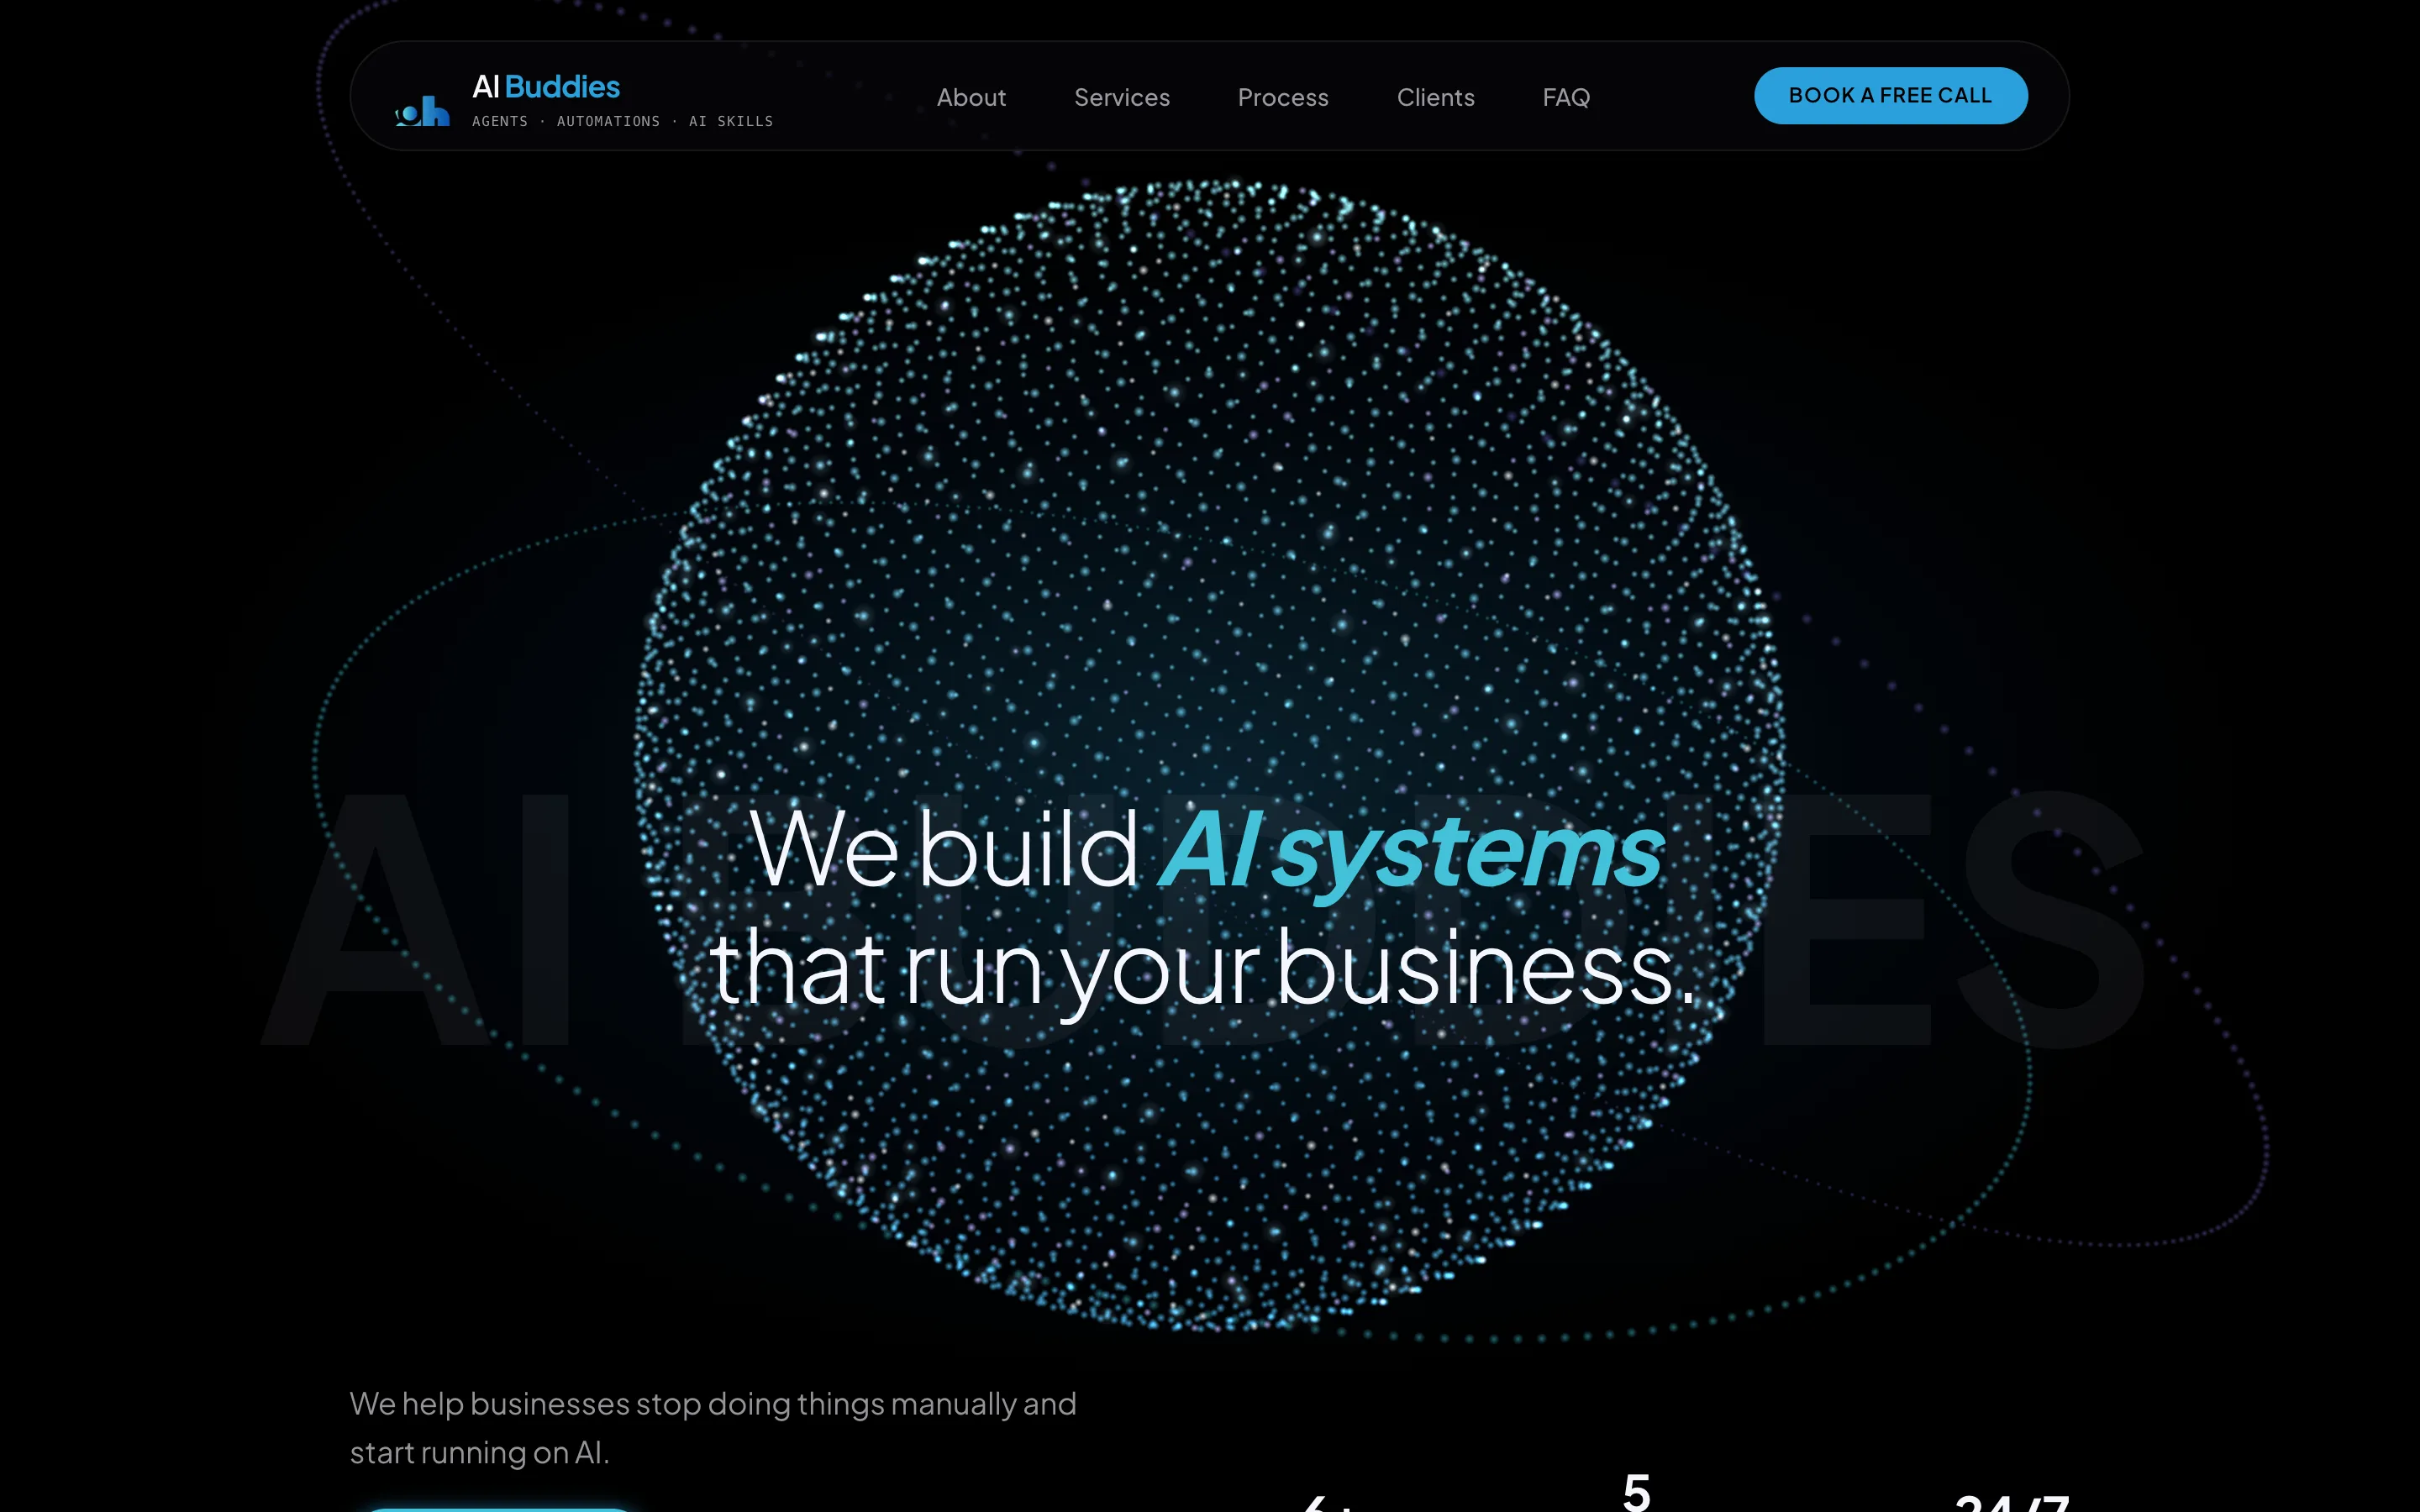
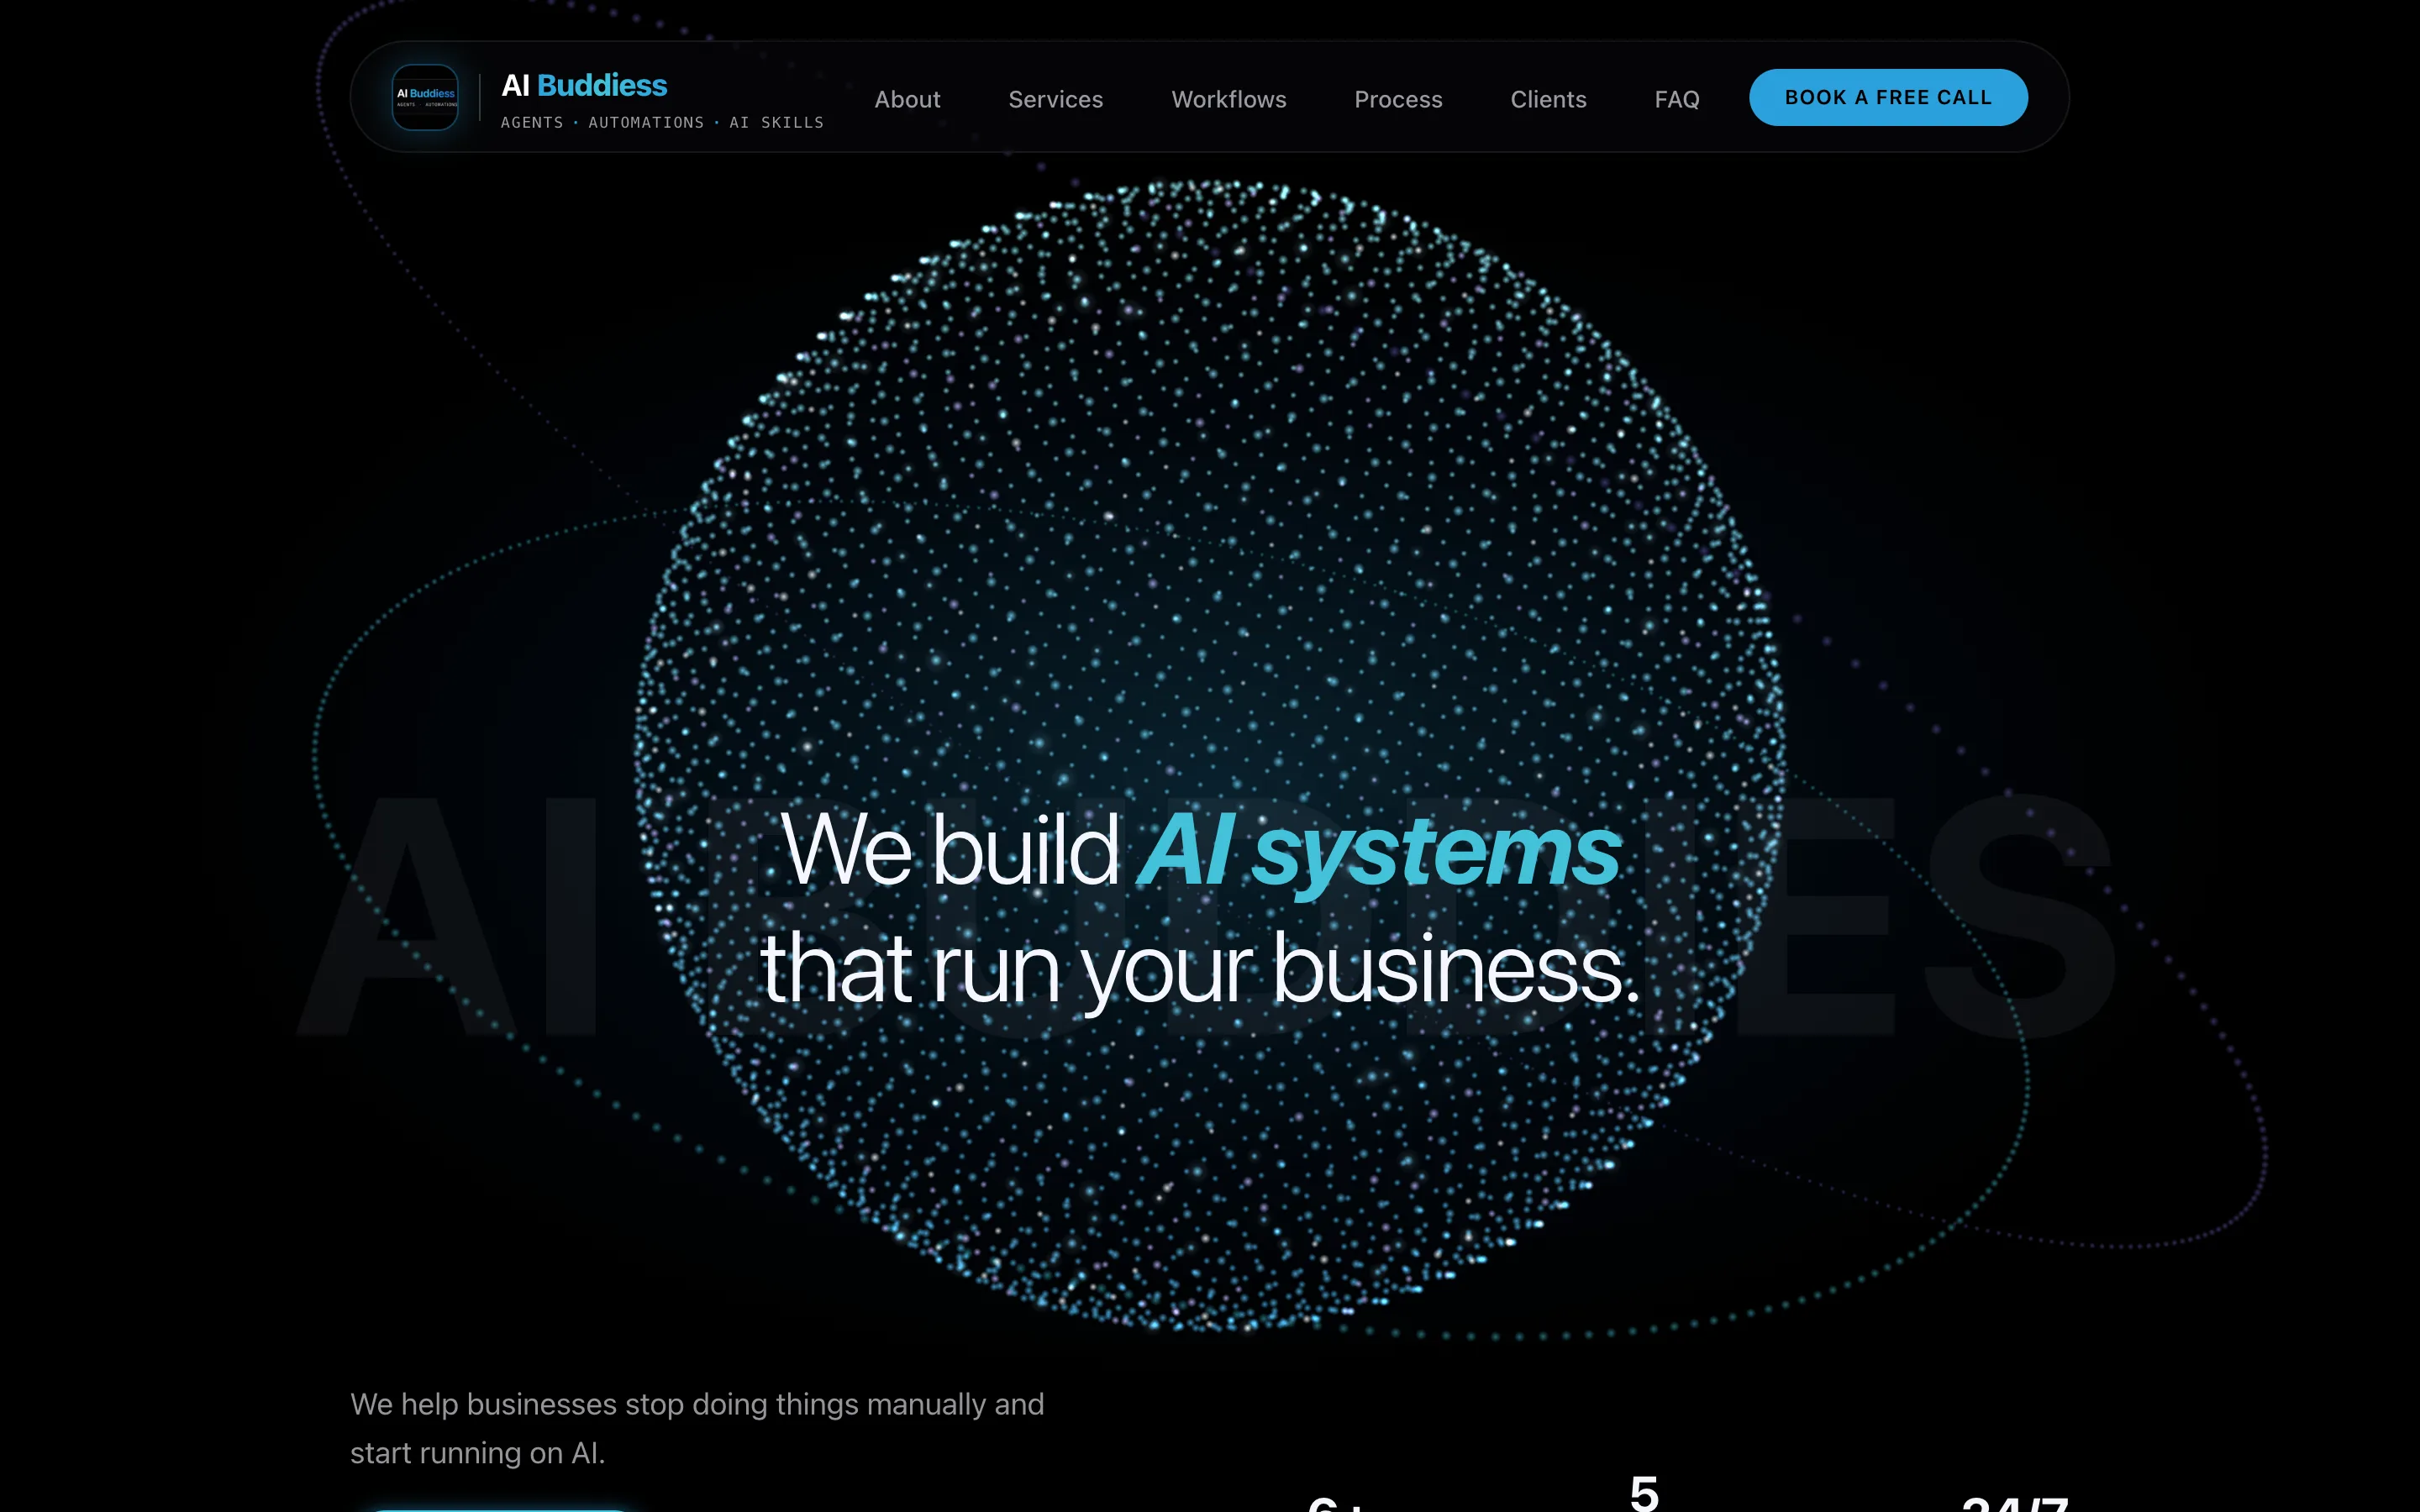
Portfolio links: update two live URLs + open all external links in a new tab
- Baby Steps → https://babystepsnewbornclinic.com, AI Buddies →
  https://aibuddiess.com (updated in lib/work.ts, so cards, marquee,
  industries links and JSON-LD schema all follow); re-captured fresh
  screenshots and confirmed the existing one-liners still match the new
  sites (no fabricated metrics)
- External project links now open in a new tab (target=_blank +
  rel=noopener noreferrer) so visitors keep our site open: added the
  conditional to the Industries "From the portfolio" links and the desktop
  nav Book-a-call CTA; the work reel, masterplan/store links, footer and
  mobile nav already did. Internal #anchors stay same-tab
- Verified real headless Chrome 1440 + 375: 37 external links all _blank,
  12 internal links all same-tab, new URLs in schema, old URLs gone,
  0 console errors

diff --git a/components/motion/IndustrySelectorMotion.jsx b/components/motion/IndustrySelectorMotion.jsx
@@ -127,11 +127,17 @@ function IndustrySelectorMotion({ industries = PLX_IND_DEFAULT, accentColor = "#
           <div style={{ ...item(3), marginTop: 10 }}>
             <div style={{ fontFamily: "'DM Mono', ui-monospace, monospace", fontSize: 10, letterSpacing: "0.18em", color: mutedColor, marginBottom: 10 }}>FROM THE PORTFOLIO</div>
             <div style={{ display: "flex", flexWrap: "wrap", gap: 22 }}>
-              {(d.links || []).map((l, k) => (
-                <a key={k} className={`${cls}-link`} href={l.href || "#work"} style={{ fontSize: 15, paddingBottom: 3 }}>
-                  {l.label} <span className={`${cls}-arr`} aria-hidden="true">↗</span>
-                </a>
-              ))}
+              {(d.links || []).map((l, k) => {
+                const ext = !!l.href && /^https?:/.test(l.href);
+                return (
+                  <a key={k} className={`${cls}-link`} href={l.href || "#work"}
+                    target={ext ? "_blank" : undefined}
+                    rel={ext ? "noopener noreferrer" : undefined}
+                    style={{ fontSize: 15, paddingBottom: 3 }}>
+                    {l.label} <span className={`${cls}-arr`} aria-hidden="true">↗</span>
+                  </a>
+                );
+              })}
             </div>
           </div>
         </div>

diff --git a/lib/work.ts b/lib/work.ts
@@ -45,7 +45,7 @@ export const PROJECTS: WorkProject[] = [
     name: "Baby Steps",
     slug: "baby-steps",
     category: "Healthcare",
-    url: "https://drclinicbhopal-three.vercel.app",
+    url: "https://babystepsnewbornclinic.com",
     line: "Pediatric clinic site for a two-specialist practice — services, vaccination timeline, and appointment booking.",
     alt: "Homepage of Baby Steps newborn and child clinic, Bhopal",
   },
@@ -53,7 +53,7 @@ export const PROJECTS: WorkProject[] = [
     name: "AI Buddies",
     slug: "ai-buddies",
     category: "AI & Automation",
-    url: "https://aibuddies-nu.vercel.app",
+    url: "https://aibuddiess.com",
     line: "Cursor-reactive site for an AI automation agency — agents, automations, and AI skills.",
     alt: "Homepage of AI Buddies with a particle-sphere hero",
   },

diff --git a/components/motion/NavBarMotion.jsx b/components/motion/NavBarMotion.jsx
@@ -102,6 +102,8 @@ function NavBarMotion({ links = PLX_NB_LINKS, activeIndex = -1, ctaLabel = "Book
         </nav>
         {item(80 + links.length * 70, <div style={{ flex: "none", display: "flex" }}>
           <a ref={ctaRef} href={ctaHref}
+            target={/^https?:/.test(ctaHref || "") ? "_blank" : undefined}
+            rel={/^https?:/.test(ctaHref || "") ? "noopener noreferrer" : undefined}
             onMouseEnter={() => hoverOk && setCtaHover(true)} onMouseMove={onCtaMove} onMouseLeave={onCtaLeave}
             onMouseDown={() => setCtaDown(true)} onMouseUp={() => setCtaDown(false)}
             style={{ display: "inline-flex", alignItems: "center", padding: "11px 22px", borderRadius: 999, textDecoration: "none",